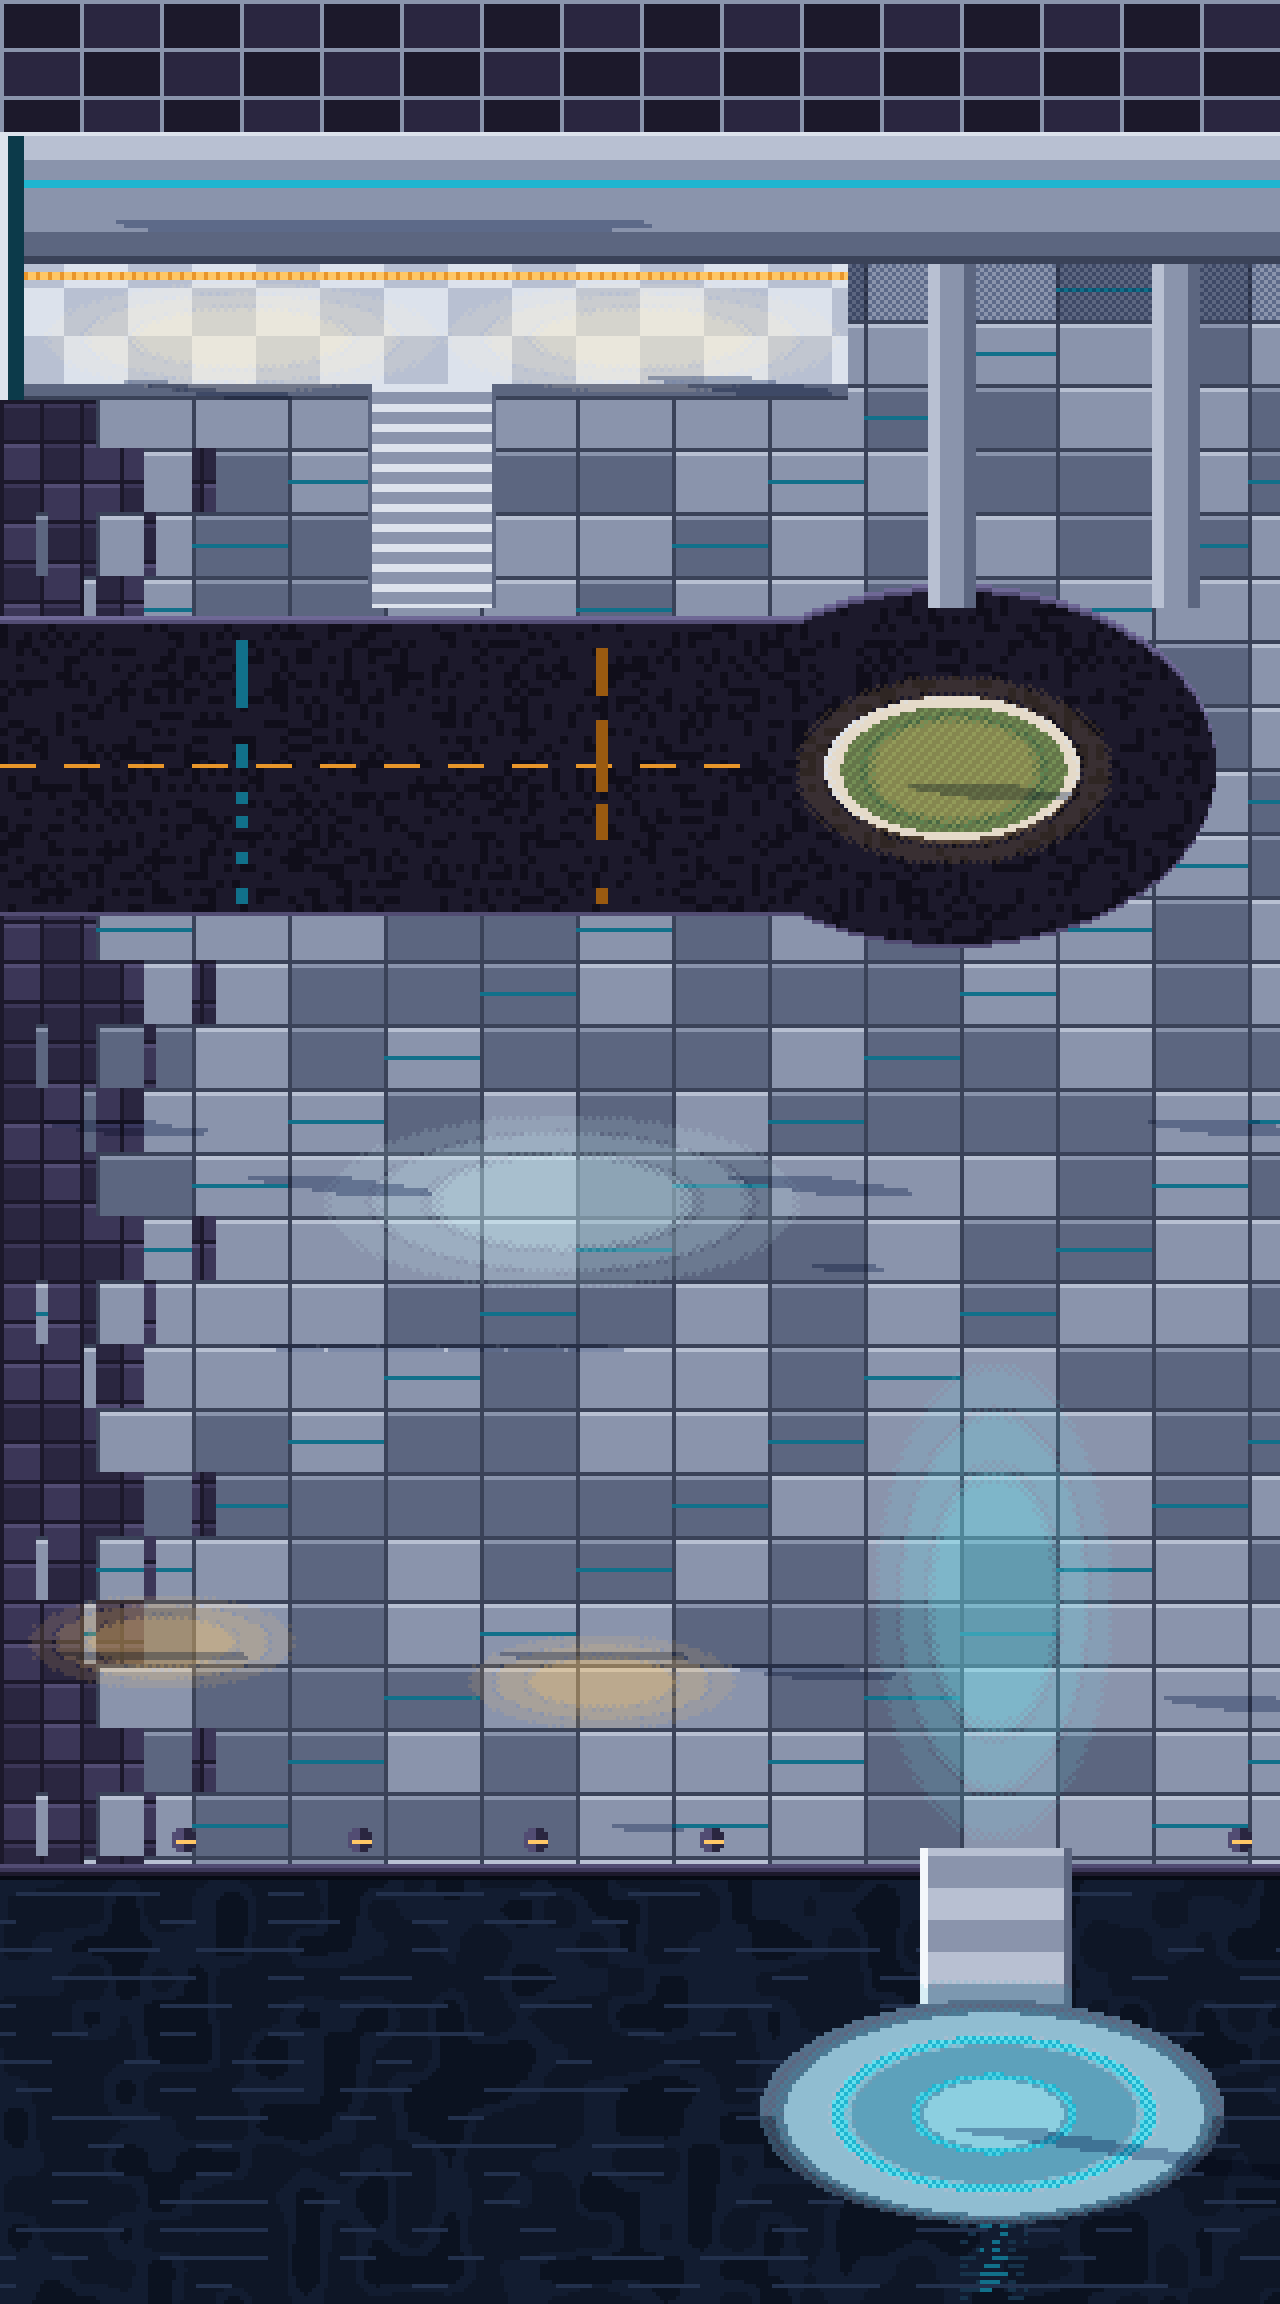
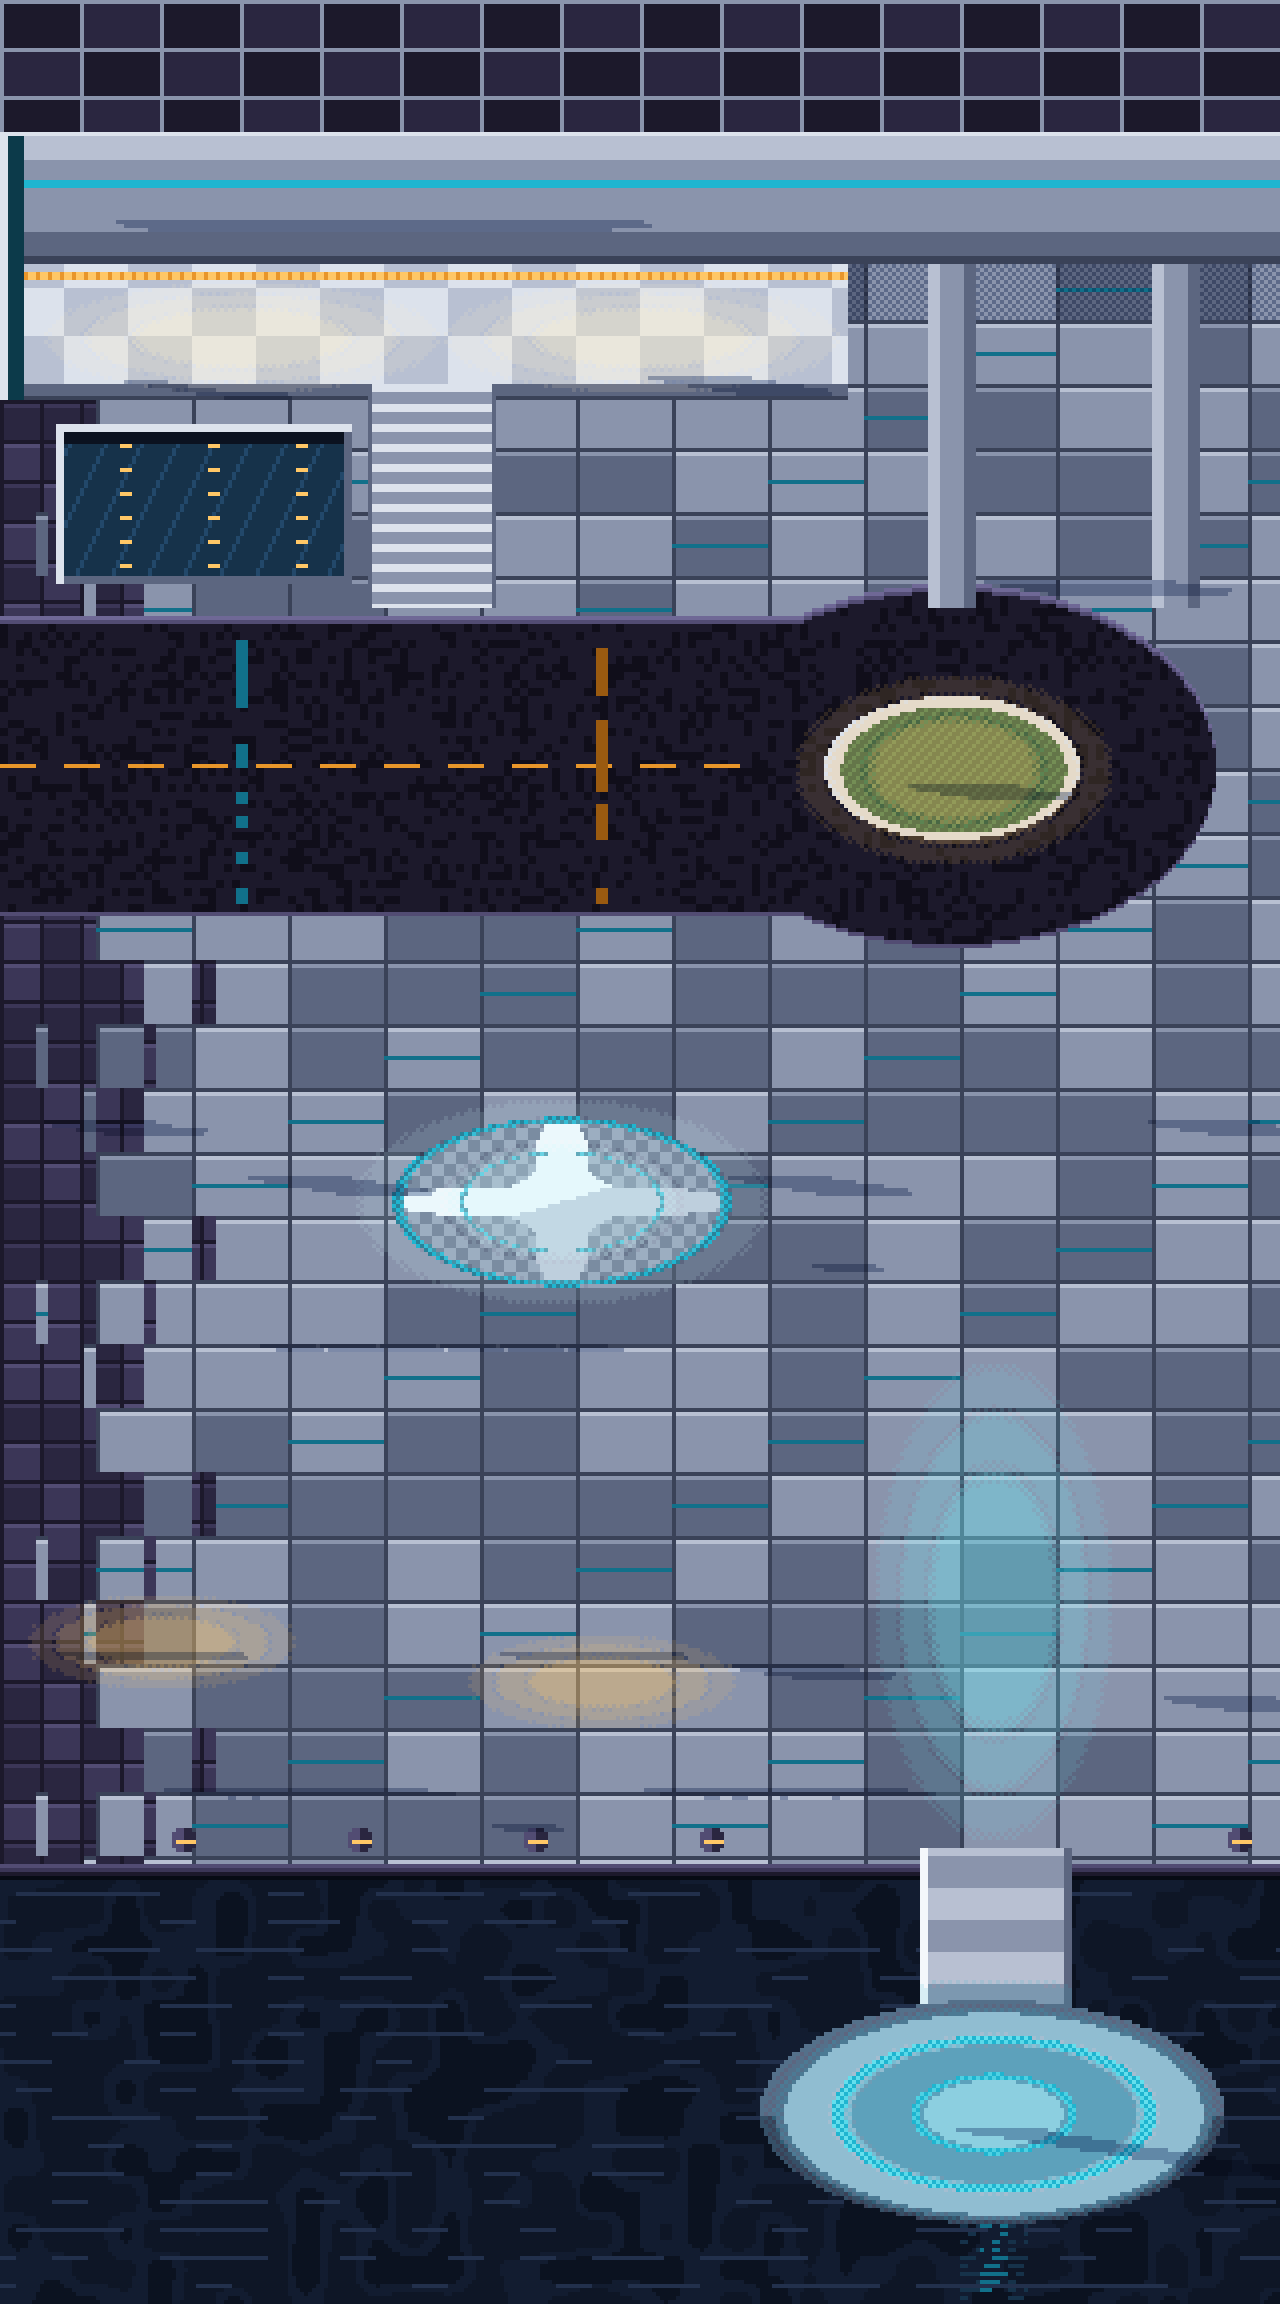
Skyport plaza: a reflecting pool, a compass rose in the floor, a flower kiosk and planter beds
Claude-Session: https://claude.ai/code/session_01UudrmtYkicLNgZeuSjvjrK

Changed region(s): [[0.0312, 0.1562, 0.2812, 0.2812], [0.3125, 0.4688, 0.5938, 0.5625], [0.7812, 0.25, 0.9375, 0.2812]]

diff --git a/lib/zone-maps.ts b/lib/zone-maps.ts
@@ -1710,11 +1710,14 @@ export const zoneMaps: Record<ZoneId, ZoneMap> = {
       ['bench-2', 'sky_bench', 125, 402, 42, 12],
       ['tree-3', 'pod_tree', 179, 375, 30, 42],
       ['tree-4', 'pod_tree', 287, 383, 30, 42],
-      ['bot-1', 'luggage_bot', 151, 439, 14, 18],
+      ['bot-1', 'luggage_bot', 121, 439, 14, 18],
       ['bot-2', 'luggage_bot', 201, 299, 14, 18],
       ['tether', 'tether', 232, 274, 33, 259],
       ['drone-1', 'drone', 119, 141, 20, 6],
       ['drone-2', 'drone', 289, 301, 20, 6],
+      ['kiosk', 'flower_kiosk', 245, 109, 46, 37],
+      ['planter-1', 'sky_planter', 41, 425, 64, 23],
+      ['planter-2', 'sky_planter_b', 159, 424, 66, 24],
     ],
     walk: [
       '80.',
@@ -1743,17 +1746,17 @@ export const zoneMaps: Record<ZoneId, ZoneMap> = {
       '2#6.4#29.5#34.',
       '23#8.22#27.',
       '80.',
-      '80.',
-      '80.',
-      '80.',
-      '80.',
-      '80.',
-      '80.',
-      '80.',
-      '80.',
-      '80.',
-      '58.3#11.3#5.',
-      '58.3#11.3#5.',
+      '3.19#58.',
+      '3.19#58.',
+      '3.19#58.',
+      '3.19#58.',
+      '3.19#58.',
+      '3.19#58.',
+      '3.19#58.',
+      '3.19#58.',
+      '3.19#58.',
+      '3.19#36.3#1.13#5.',
+      '3.19#36.3#1.13#5.',
       '58.3#11.3#5.',
       '80.',
       '80.',
@@ -1824,14 +1827,14 @@ export const zoneMaps: Record<ZoneId, ZoneMap> = {
       '45.7#20.7#1.',
       '72.7#1.',
       '72.7#1.',
-      '80.',
-      '80.',
-      '80.',
-      '80.',
-      '80.',
-      '38.3#39.',
-      '38.3#39.',
-      '38.3#39.',
+      '11.15#14.16#24.',
+      '11.15#14.16#24.',
+      '11.15#14.16#24.',
+      '11.15#14.16#24.',
+      '11.15#14.16#24.',
+      '31.2#47.',
+      '31.2#47.',
+      '31.2#47.',
       '80.',
       '80.',
       '58#9.13#',

diff --git a/lib/zone-assets.ts b/lib/zone-assets.ts
@@ -73,6 +73,7 @@ import propFireplace from '@/assets/zones/props/fireplace.png';
 import propFireweed from '@/assets/zones/props/fireweed.png';
 import propFireweedSmall from '@/assets/zones/props/fireweed_small.png';
 import propFishStall from '@/assets/zones/props/fish_stall.png';
+import propFlowerKiosk from '@/assets/zones/props/flower_kiosk.png';
 import propForestBench from '@/assets/zones/props/forest_bench.png';
 import propForge from '@/assets/zones/props/forge.png';
 import propFoundry from '@/assets/zones/props/foundry.png';
@@ -162,6 +163,8 @@ import propShelter from '@/assets/zones/props/shelter.png';
 import propShuttle from '@/assets/zones/props/shuttle.png';
 import propSignpost from '@/assets/zones/props/signpost.png';
 import propSkyBench from '@/assets/zones/props/sky_bench.png';
+import propSkyPlanter from '@/assets/zones/props/sky_planter.png';
+import propSkyPlanterB from '@/assets/zones/props/sky_planter_b.png';
 import propSleepPod from '@/assets/zones/props/sleep_pod.png';
 import propSnowyPine from '@/assets/zones/props/snowy_pine.png';
 import propStall from '@/assets/zones/props/stall.png';
@@ -319,6 +322,7 @@ export const zoneProps: Record<string, ImageSourcePropType> = {
   fireweed: propFireweed,
   fireweed_small: propFireweedSmall,
   fish_stall: propFishStall,
+  flower_kiosk: propFlowerKiosk,
   forest_bench: propForestBench,
   forge: propForge,
   foundry: propFoundry,
@@ -408,6 +412,8 @@ export const zoneProps: Record<string, ImageSourcePropType> = {
   shuttle: propShuttle,
   signpost: propSignpost,
   sky_bench: propSkyBench,
+  sky_planter: propSkyPlanter,
+  sky_planter_b: propSkyPlanterB,
   sleep_pod: propSleepPod,
   snowy_pine: propSnowyPine,
   stall: propStall,

diff --git a/scripts/art/cyber_props.py b/scripts/art/cyber_props.py
@@ -496,6 +496,64 @@ def sky_bench() -> Canvas:
         cv.set(x, 10 + sag, CYAN[2] if x % 2 else CYAN[1])
     return cv
 
+
+def sky_planter(seed: int = 0) -> Canvas:
+    """A long white planter bed, 64 x 24: soft feather grasses and a few low flowering
+    clumps (style.leafy) spilling over a porcelain trough lit on its top edge."""
+    import style
+    w, h = 64, 24
+    cv = Canvas(w, h, pad=PAD)
+    G = ['#1E3A2E', '#2E5A40', '#447A50', '#62995E', '#8CBB76']
+    for k in range(3):
+        style.leafy(cv, 12 + k * 20 + int(noise2(k, seed, 494) * 4), 10, 10, 5, G, r=2.2, seed=seed + k)
+    for k in range(9):  # feather grass blades over the clumps
+        x = 5 + k * 6 + int(noise2(k, seed, 495) * 3)
+        top = 1 + int(noise2(k, seed, 496) * 4)
+        for y in range(top, 13):
+            cv.set(x + (1 if y < top + 3 else 0), y, '#C8C89A' if y < top + 2 else G[3])
+    for k in range(5):  # flowers
+        x, y = 8 + int(noise2(k, seed, 497) * 48), 7 + int(noise2(k, seed, 498) * 5)
+        if cv.get(x, y)[3]:
+            col = ('#F2A0C8', '#F7F2E8', '#9A8BC8')[k % 3]
+            cv.set(x, y, col); cv.set(x + 1, y, col)
+    for y in range(13, h - 1):
+        for x in range(2, w - 2):
+            cv.set(x, y, PORCELAIN[5] if y == 13 else PORCELAIN[4] if y < 16 else PORCELAIN[3] if x < w - 8 else PORCELAIN[1])
+    cv.hline(3, 14, w - 6, '#3A2A22')  # the soil line
+    cv.hline(2, h - 2, w - 4, PORCELAIN[1])
+    return cv
+
+
+def flower_kiosk() -> Canvas:
+    """A small flower kiosk under the guideway, 48 x 40: a curved white canopy with a
+    cyan edge light, buckets of flowers on stepped shelves, and a warm lamp inside."""
+    w, h = 48, 40
+    cv = Canvas(w, h, pad=PAD)
+    for y in range(4, 14):  # the canopy, seen from above and in front
+        for x in range(2, w - 2):
+            c = PORCELAIN[5] if y < 7 else PORCELAIN[4] if x < w - 10 else PORCELAIN[3]
+            cv.set(x, y, c)
+    for x in range(2, w - 2):
+        cv.set(x, 14, CYAN[3] if x % 2 else CYAN[2])
+    for y in range(15, h - 2):  # the back wall in warm lamplight
+        for x in range(5, w - 5):
+            cv.set(x, y, '#E8C890' if y < 20 and x < w - 12 else '#B88E62' if x < w - 12 else '#7A5A44')
+    PETAL = ['#F2A0C8', '#E8D27A', '#F7F2E8', '#E86A5A', '#9A8BC8']
+    for row, y in enumerate((22, 28)):  # stepped shelves of buckets
+        cv.hline(5, y + 5, w - 10, PORCELAIN[2])
+        for k in range(5):
+            bx = 8 + k * 7 + row * 3
+            cv.rect(bx, y + 2, 5, 3, PORCELAIN[3] if k % 2 else PORCELAIN[4])
+            for (dx, dy) in ((0, 0), (2, -1), (4, 0), (1, 1), (3, 1)):
+                cv.set(bx + dx, y + dy, PETAL[(k + row * 2 + dx) % 5])
+            cv.set(bx + 1, y + 1, '#447A50'); cv.set(bx + 3, y, '#447A50')
+    for y in range(15, h - 1):  # the posts
+        cv.set(3, y, PORCELAIN[4]); cv.set(4, y, PORCELAIN[2])
+        cv.set(w - 5, y, PORCELAIN[3]); cv.set(w - 4, y, PORCELAIN[1])
+    cv.hline(3, h - 2, w - 6, PORCELAIN[1])
+    return cv
+
+
 def cables() -> Canvas:
     """Wires strung over the street, 300 x 150 (drawn above everything): sagging lines
     from the towers to the pole across the road, a string of small lanterns on one,
@@ -549,7 +607,8 @@ def props() -> dict[str, Canvas]:
         'containers': containers(), 'ferry': ferry(),
         'maglev': maglev(), 'tether': tether(), 'ticket_gates': ticket_gates(), 'departure_pylon': departure_pylon(),
         'luggage_bot': luggage_bot(), 'pod_tree': pod_tree(), 'sky_bench': sky_bench(),
-        'cables': cables(), 'bike_rack': bike_rack(),
+        'cables': cables(), 'bike_rack': bike_rack(), 'sky_planter': sky_planter(0), 'sky_planter_b': sky_planter(3),
+        'flower_kiosk': flower_kiosk(),
     }
 
 

diff --git a/scripts/art/zones.py b/scripts/art/zones.py
@@ -709,6 +709,32 @@ def skyport(frame: int = 0):
             k = (x - 8) / 48  # the change over the first 56 pixels, in an ordered dither by whole tiles
             bayer = (0, 8, 2, 10, 12, 4, 14, 6, 3, 11, 1, 9, 15, 7, 13, 5)[((y // 16) % 4) * 4 + (x // 12) % 4] / 16
             cv.set(x, y, dark if k < 0 or (k < 1 and bayer >= k) else pale)
+    # a compass rose inlaid in the concourse floor, pointing the way up
+    MX, MY = 140, 300
+    for (x, y) in oval(MX, MY, 44, 22):
+        d = math.hypot((x - MX) / 44, (y - MY) / 22)
+        a = math.atan2((y - MY) * 2, x - MX)
+        star = d < 0.95 * (0.35 + 0.65 * abs(math.cos(2 * a)) ** 6)  # four long points
+        if 0.9 < d < 0.96 or 0.55 < d < 0.58:
+            cv.set(x, y, CYAN[2] if (x + y) % 2 else CYAN[1])
+        elif star:
+            cv.set(x, y, PORC[5] if (x - MX) * 0.3 + (y - MY) < 0 else PORC[3])
+        elif d < 0.9:
+            cv.set(x, y, PORC[2] if (x // 3 + y // 3) % 2 else PORC[1])
+    # a still reflecting pool under the platform, holding the platform lights
+    pool = rect_set_z(16, 108, 70, 36)
+    for (x, y) in pool:
+        c = '#16324A' if (x + y // 2) % 9 else '#22486A'
+        if y < 111:
+            c = '#0B1220'  # the shadow of its rim
+        if (x - 30) % 22 < 3 and y % 6 == 3:
+            c = AMBER[3]  # the platform lights doubled
+        cv.set(x, y, c)
+        blocked.add((x, y))
+    for (x, y) in rect_set_z(14, 106, 74, 40):
+        if (x, y) not in pool:
+            cv.set(x, y, PORC[4] if y < 108 or x < 16 else PORC[1])
+            blocked.add((x, y))
     # Neon Harbour's street, continued, ending at a drop-off loop
     LX, LY = 238, 192
     loop = {(x, y) for (x, y) in oval(LX, LY, 66, 44)}
@@ -824,7 +850,7 @@ def skyport(frame: int = 0):
             cv.set(x, y, NIGHT[4] if x < bx else NIGHT[2])
         cv.hline(bx - 2, 460, 5, AMBER[3])
     for (lx, ly, rx, ry, col) in ((AX, AY, 70, 34, CYAN[2]), (60, 84, 50, 14, AMBER[4]), (160, 84, 50, 14, AMBER[4]),
-                                  (140, 300, 60, 22, CYAN[4]), (40, 410, 34, 12, AMBER[3]), (150, 420, 34, 12, AMBER[3]),
+                                  (140, 300, 52, 26, CYAN[4]), (40, 410, 34, 12, AMBER[3]), (150, 420, 34, 12, AMBER[3]),
                                   (LX, LY, 40, 24, AMBER[3]), (AX, 400, 30, 60, CYAN[3])):
         light_pool(cv, lx, ly, rx, ry, col, skip=frozenset(water - ring - pier))
     blocked |= water - ring - pier
@@ -833,9 +859,10 @@ def skyport(frame: int = 0):
         ('tree-loop', 'pod_tree', LX - 18, LY - 40), ('tree-1', 'pod_tree', 280, 236), ('tree-2', 'pod_tree', 4, 236),
         ('pylon-1', 'departure_pylon', 60, 240), ('pylon-2', 'departure_pylon', 180, 240),
         ('gates', 'ticket_gates', 64, 316), ('bench-1', 'sky_bench', 14, 400), ('bench-2', 'sky_bench', 124, 400),
-        ('tree-3', 'pod_tree', 176, 372), ('tree-4', 'pod_tree', 284, 380), ('bot-1', 'luggage_bot', 150, 440),
+        ('tree-3', 'pod_tree', 176, 372), ('tree-4', 'pod_tree', 284, 380), ('bot-1', 'luggage_bot', 120, 440),
         ('bot-2', 'luggage_bot', 200, 300), ('tether', 'tether', AX - 20, AY - 254),
         ('drone-1', 'drone', 120, 140), ('drone-2', 'drone', 290, 300),
+        ('kiosk', 'flower_kiosk', 244, 106), ('planter-1', 'sky_planter', 40, 424), ('planter-2', 'sky_planter_b', 160, 424),
     ]
     stands = {'neon': (10, 192), 'platform': (70, 84), 'gates': (104, 360), 'anchor': (AX, AY + 14)}
     return cv, objects, stands, blocked

diff --git a/docs/vision/world-atlas.md b/docs/vision/world-atlas.md
@@ -84,7 +84,7 @@ Every journey now leaves from a drawn stop: the valley train from Valley Halt, t
 
 **How borders meet.** No prop crosses a border with a neighbour (the generator fails if one does; a tall prop may rise up to 48 px over a north border only where nothing stands in the zone behind). Every door faces open, reachable ground with nothing standing in front of it (also checked). A road that crosses a border keeps its x (or y) and width and is painted on past the edge, so neither side draws a turf edge there (`paint_road` and the garden's path painter both treat pixels beyond the edge as road). Water, banks and bluffs continue on the same line (the Riverside and the Woodland reuse the garden's stream function with an x offset). Where the ground differs, the side that changes dithers into its neighbour's ground over the last 56 pixels (the Woodland's forest floor into the garden's grass).
 
-**Middle-distance detail (18 Oct).** Open ground between the landmarks gets things at the scale of the companion, each belonging to its place: old pahoehoe flows cooled flat on the ash (rope ridges bowed downstream, lit lip, round toes), fallen basalt scree and charred snags with one crack still glowing in the caldera and the springs; an old gold-foil lander with its short tracks, a natural rock arch you walk through and boulder fields on Lumen; acacias, tamarisk scrub and sandstone outcrops on the oasis dunes. Small decals (dress) stay for the near scale; landmarks stay the far scale.
+**Middle-distance detail (18 Oct).** Open ground between the landmarks gets things at the scale of the companion, each belonging to its place: old pahoehoe flows cooled flat on the ash (rope ridges bowed downstream, lit lip, round toes), fallen basalt scree and charred snags with one crack still glowing in the caldera and the springs; an old gold-foil lander with its short tracks, a natural rock arch you walk through and boulder fields on Lumen; acacias, tamarisk scrub and sandstone outcrops on the oasis dunes. The Skyport's plaza got a still reflecting pool under the platform, a compass rose inlaid in the concourse, a flower kiosk under the guideway and planter beds by the quay. Small decals (dress) stay for the near scale; landmarks stay the far scale.
 
 ## A world that feels alive
 
